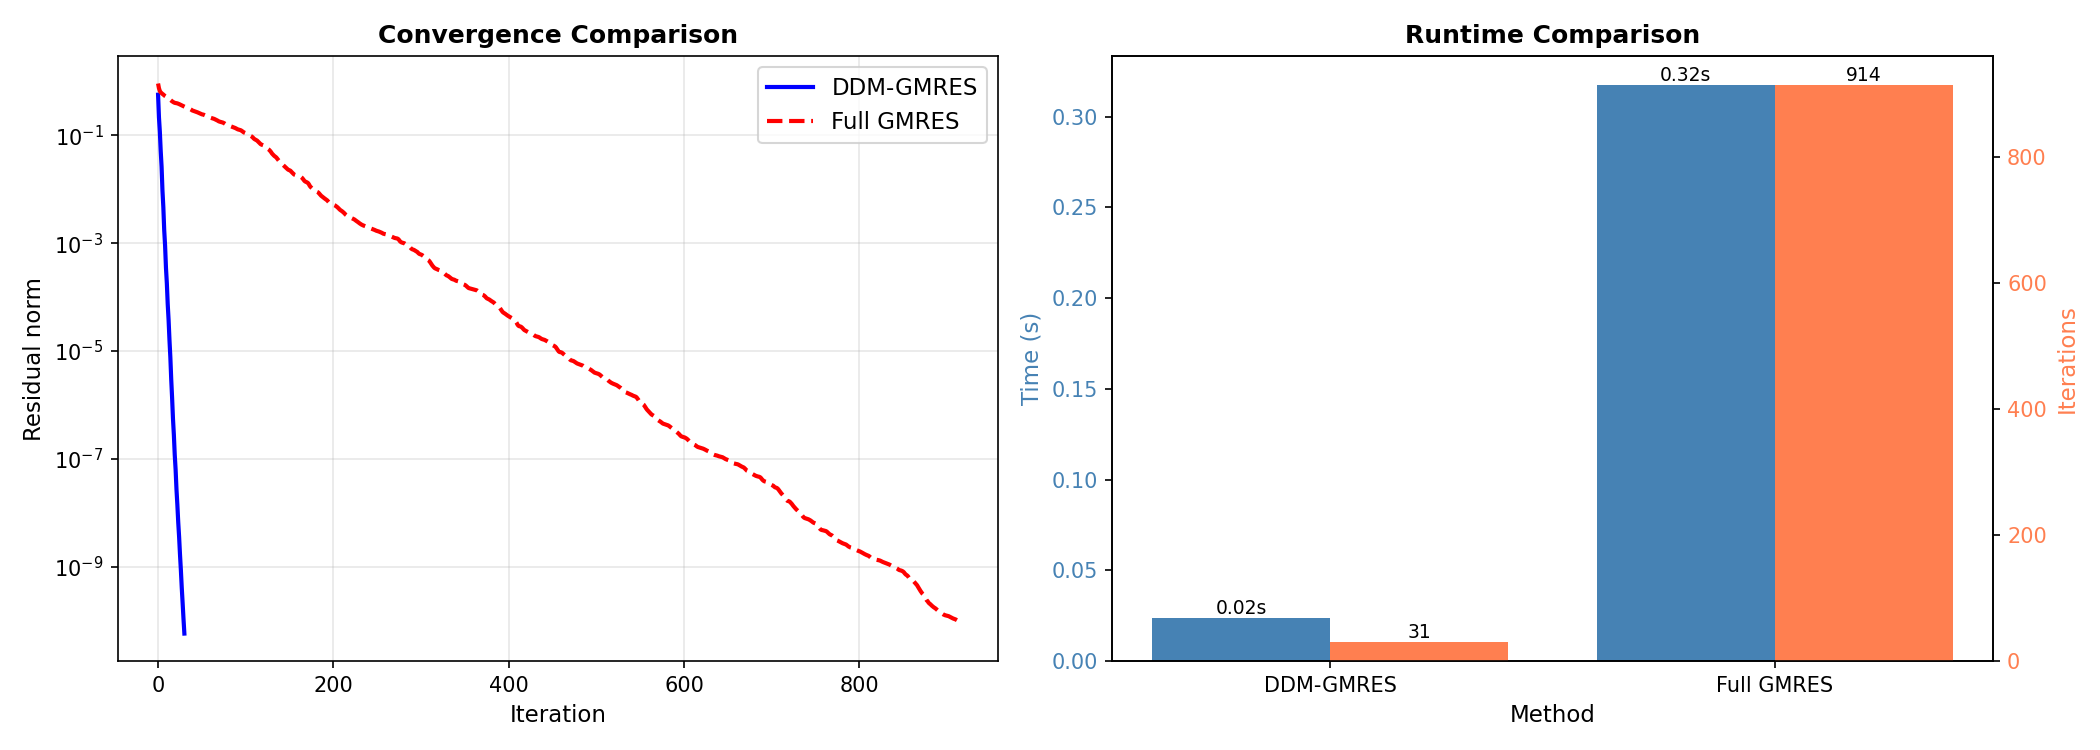
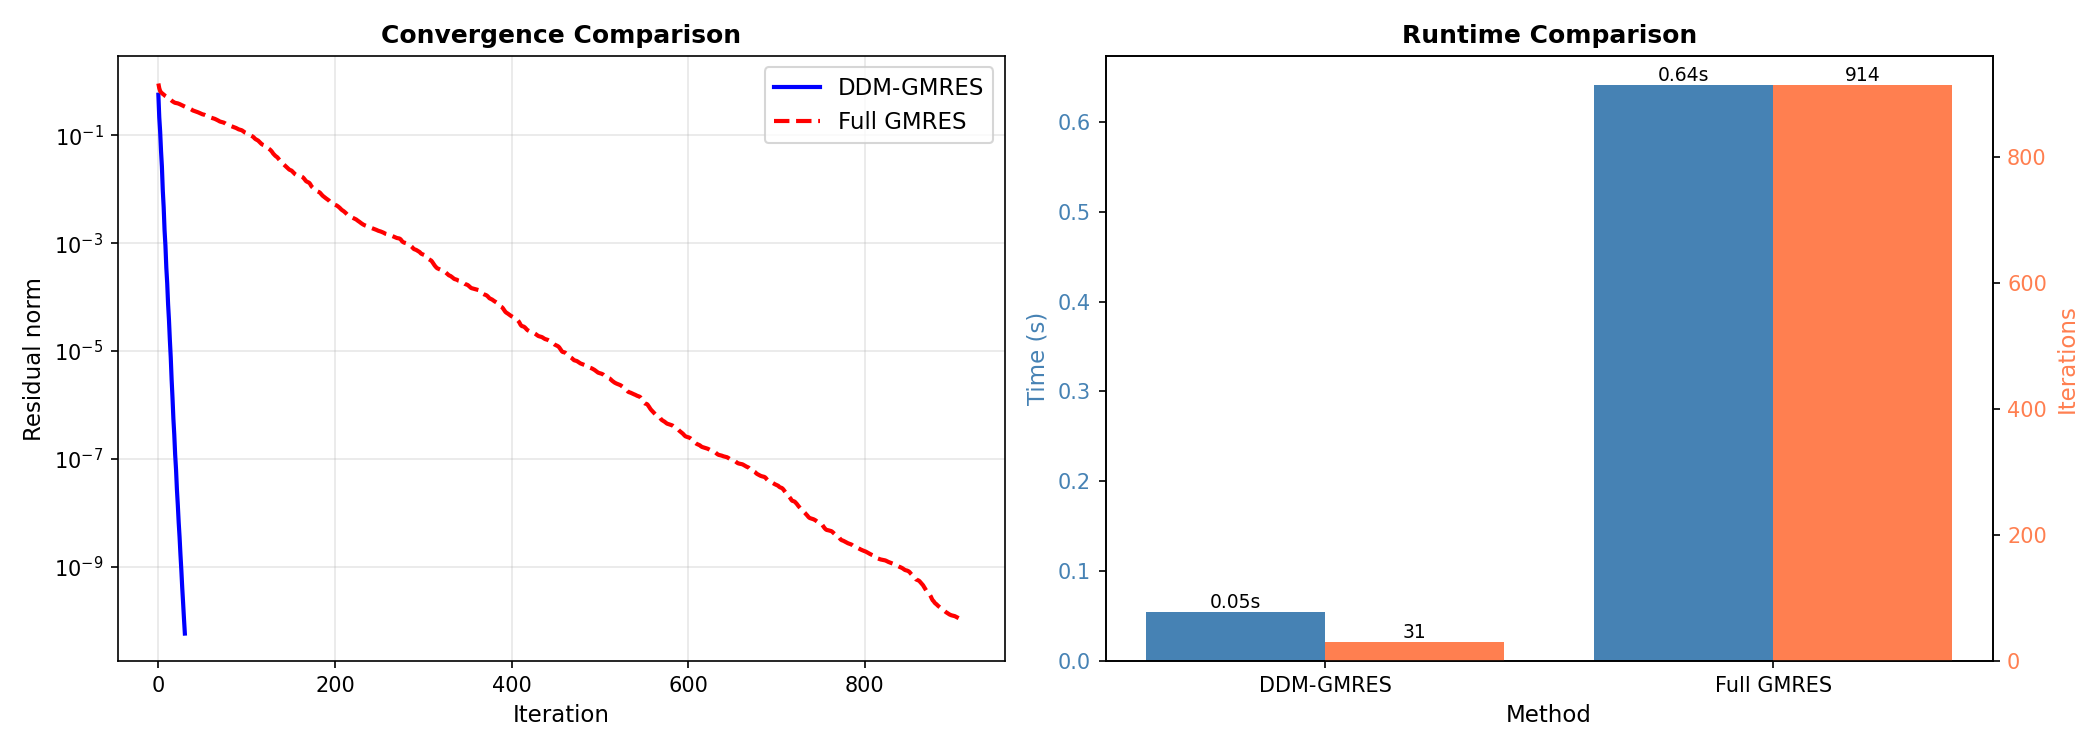
Final refactoring... for the moment

diff --git a/src/common/helmholtz/system_assembly.py b/src/common/helmholtz/system_assembly.py
@@ -1,5 +1,9 @@
-from math import pi
+"""
+Basic routines used for system assembly for the 2D Helmholtz problem.
+These routines are used both in the sequential and in the parallel setting
+"""
 
+from math import pi
 import numpy as np
 na = np.newaxis
 import numpy.linalg as la
@@ -7,7 +11,15 @@ from scipy.sparse import csr_matrix
 
 from src.common.mesh import get_area
 
+
 def mass(vtx, elt):
+    """
+    Builds the mass matrix of the discretized 2d Helmholtz problem, 
+    given the vertices and the triangles
+    
+    :param vtx: vertices of the mesh
+    :param elt: triangles of the mesh
+    """
     nv = np.size(vtx, 0)
     d = np.size(elt, 1)
     areas = get_area(vtx, elt)
@@ -21,6 +33,13 @@ def mass(vtx, elt):
     return M
 
 def stiffness(vtx, elt):
+    """
+    Builds the stiffness matrix of the discretized 2d Helmholtz problem, 
+    given the vertices and the triangles
+    
+    :param vtx: vertices of the mesh
+    :param elt: triangles of the mesh
+    """
     nv = np.size(vtx, 0)
     d = np.size(elt, 1)
     areas = get_area(vtx, elt)
@@ -39,6 +58,9 @@ def stiffness(vtx, elt):
     return K
 
 def point_source(sp, k):    
+    """
+    Builds the right hand side for the linear of the discretized 2D Helmholtz problem 
+    """
     def ps(x):
         v = np.zeros(np.size(x,0), float)
         for s in sp:

diff --git a/src/seq/ddm_assembly.py b/src/seq/ddm_assembly.py
@@ -1,11 +1,18 @@
+"""
+Functions related to the assembly of the Domain Decomposition Method in the sequential case
+"""
+
 import numpy as np
 from src.common.mesh import local_boundary, local_mesh
-from src.common.helmholtz_param import HelmholtzParameters
+from src.common.helmholtz.helmholtz_param import HelmholtzParameters
 from src.common.ddm_operators import (Bj_matrix, Cj_matrix, Aj_matrix, Tj_matrix,
                            Sj_factorization, bj_vector, g_vector)
 
 def build_ddm_solver(nx, ny, J, param : HelmholtzParameters):
-    """Build all DDM components"""
+    """
+    Builds all DDM components and aggregates them into lists to perform the Domain
+    Decomposition in a sequential setting
+    """
     factorizations = []
     Bj_list = []
     Cj_list = []

diff --git a/scripts/GMRES_analysis.py b/scripts/GMRES_analysis.py
@@ -26,12 +26,12 @@ if project_root not in sys.path:
 
 from src.seq.ddm_assembly import build_ddm_solver
 from src.seq.solver.GMRES import solve_ddm_gmres
-from src.common.helmholtz_param import HelmholtzParameters
+from src.common.helmholtz.helmholtz_param import HelmholtzParameters
 
 from src.common.ddm_operators import S_operator, Pi_operator, uj_solution
 from src.seq.solver.fixed_point import fixed_point_solver
 from src.common.mesh import mesh, boundary, plot_mesh
-from src.common.system_assembly import mass, stiffness, point_source
+from src.common.helmholtz.system_assembly import mass, stiffness, point_source
 
 # ============================== LOGGING & PLOTTING SETUP ===============================
 # Ensure imports work from project root (Path fix)

diff --git a/src/common/ddm_operators.py b/src/common/ddm_operators.py
@@ -1,18 +1,13 @@
-#!/usr/bin/env python3
 """
-Domain Decomposition Method for 2D Helmholtz Equation
-Project 2: Sequential Implementation
+Operators used in the Domain Decomposition Method applied to a generic problem 
+with rectangular mesh conforming to what is generated by src.common.mesh.mesh()
 """
 
 from math import pi
 import numpy as np
-import numpy.linalg as la
 import scipy.sparse.linalg as spla
-from scipy.sparse import csr_matrix, csc_matrix, eye
-from matplotlib import cm
-import matplotlib.pyplot as plt
-import matplotlib.tri as mtri
-from src.common.system_assembly import mass, stiffness, point_source
+from scipy.sparse import csr_matrix, csc_matrix
+from src.common.helmholtz.system_assembly import mass, stiffness, point_source
 
 
 
